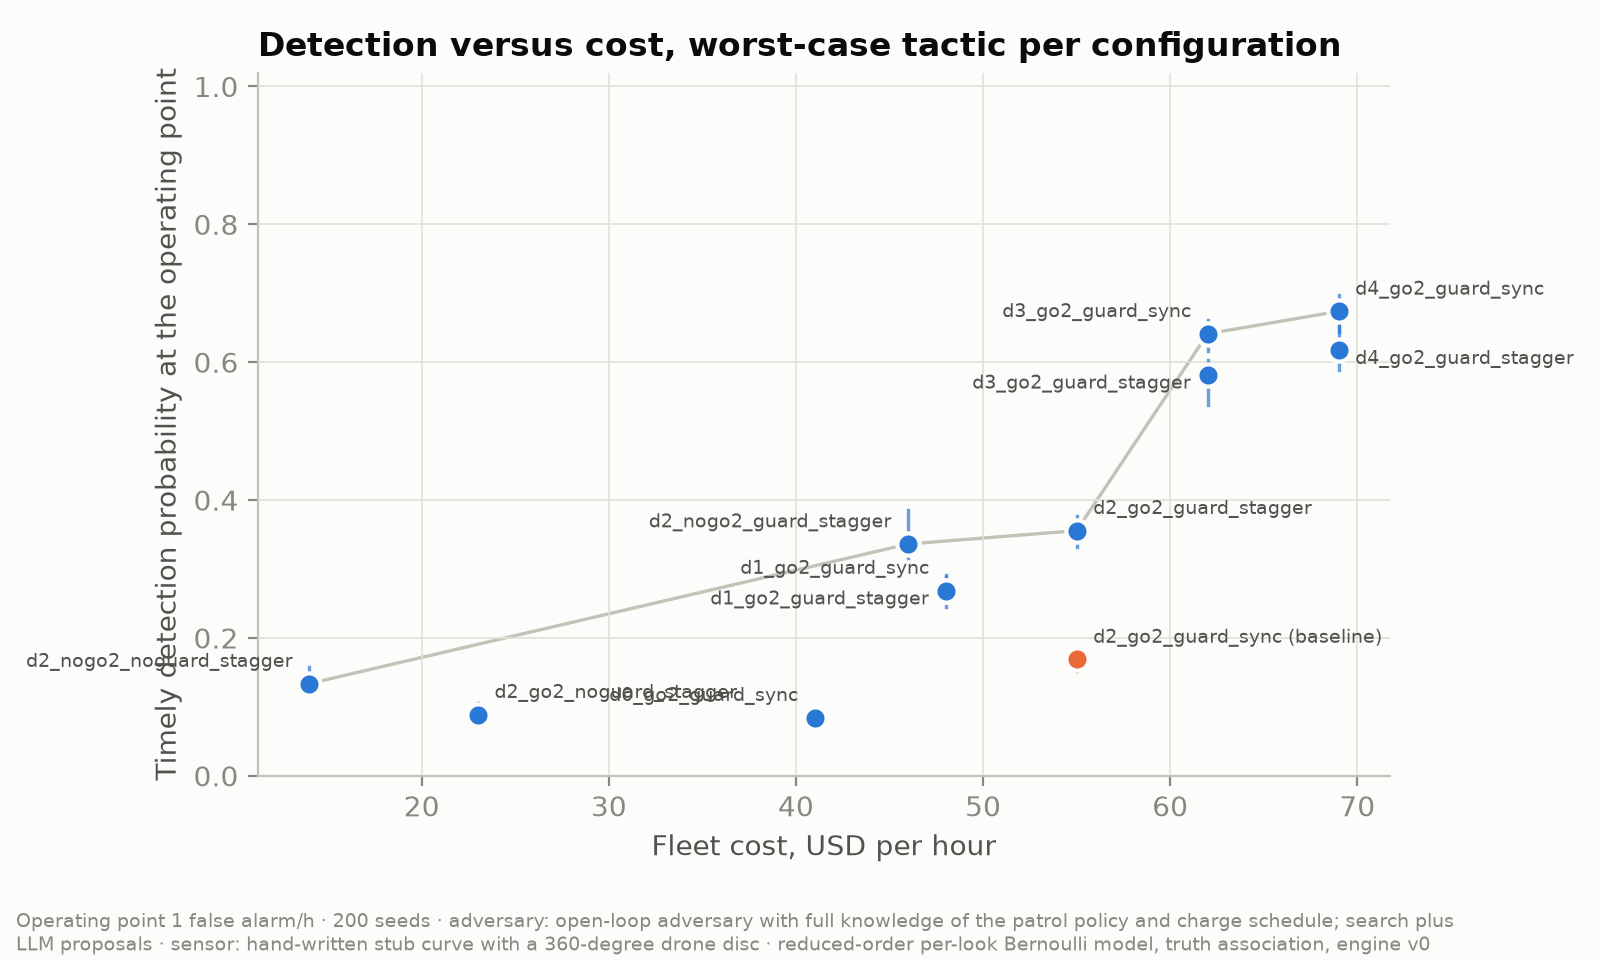
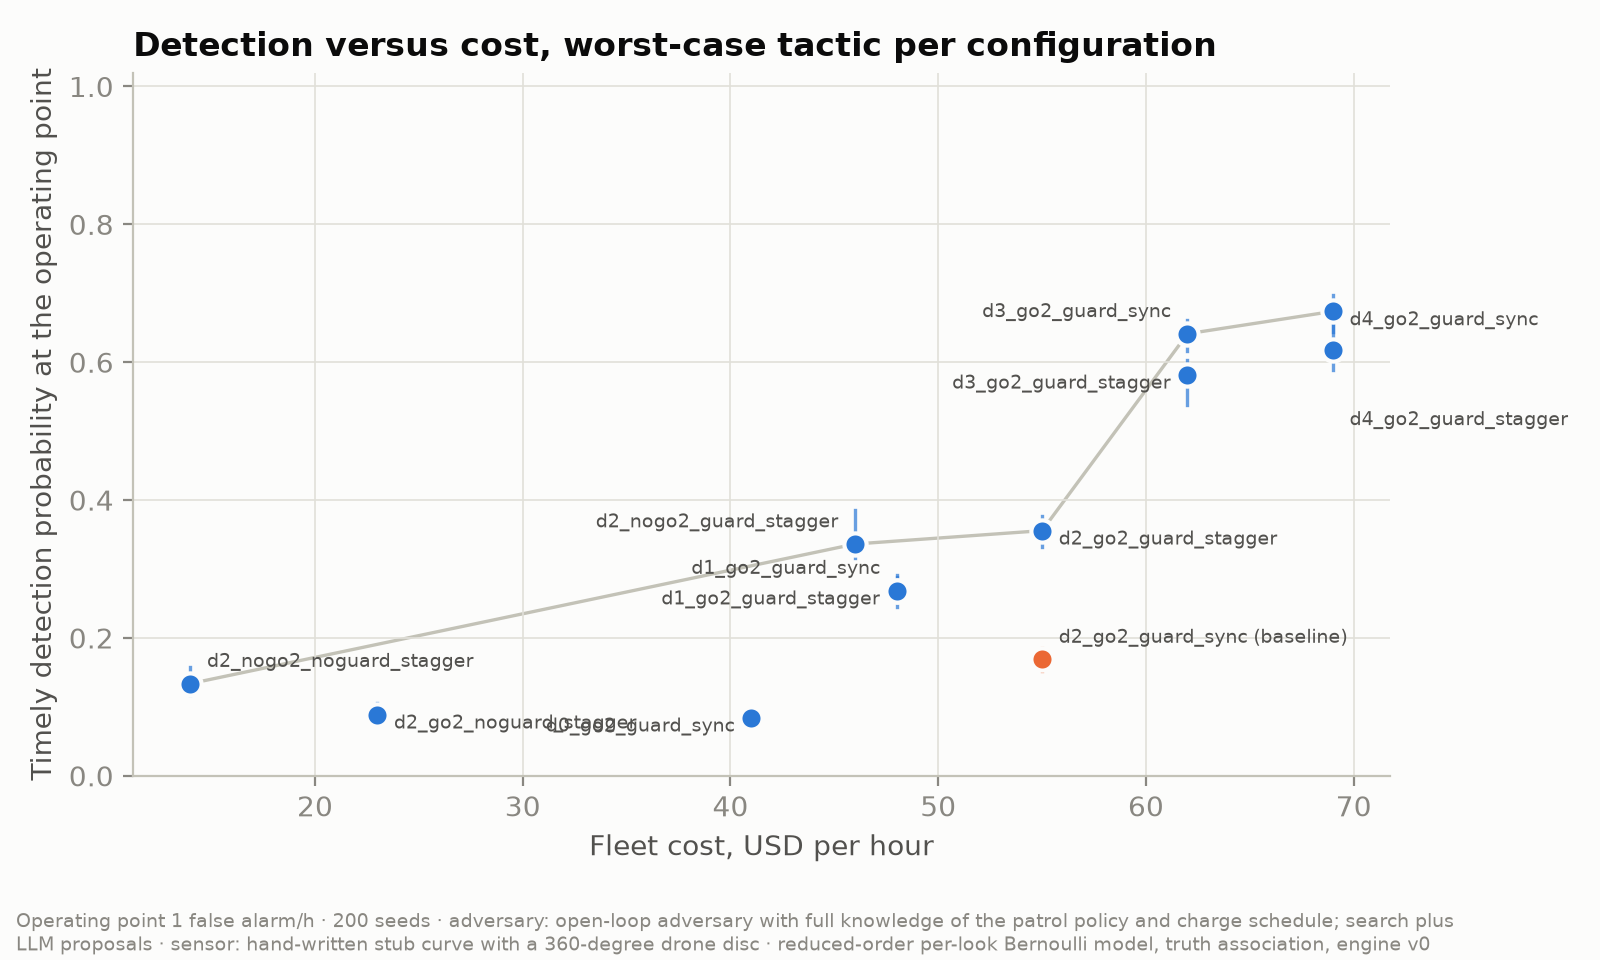
feat(pitch): edge-safe label placement on the cost chart

diff --git a/pitch/make_charts.py b/pitch/make_charts.py
@@ -90,10 +90,16 @@ def chart_cost_vs_detection(r: Report, p: Palette, out: Path, numbers: dict) -> 
         x, y = c.cost_per_hour, c.pd_at_operating_point
         ax.plot([x, x], [lo, hi], color=color, linewidth=1.2, alpha=0.7, zorder=2)
         ax.scatter([x], [y], s=64, color=color, edgecolor=p.surface, linewidth=1.5, zorder=3)
-        crowded_right = any(0 < (ox - x) / xspan < 0.3 and abs(oy - y) < 0.1 for ox, oy in pts)
+        xmin_pts = min(px for px, _ in pts)
+        near_left_edge = (x - xmin_pts) / xspan < 0.15
+        crowded_right = (not near_left_edge) and any(
+            0 < (ox - x) / xspan < 0.3 and abs(oy - y) < 0.1 for ox, oy in pts
+        )
         dy = 6.0
         for px, py in placed:
-            if abs(px - x) / xspan < 0.12 and abs(py - y) < 0.06:
+            same_column = abs(px - x) / xspan < 0.12 and abs(py - y) < 0.06
+            same_row = 0 < (x - px) / xspan < 0.4 and abs(py - y) < 0.05
+            if same_column or same_row:
                 dy -= 11.0
         placed.append((x, y))
         ax.annotate(
